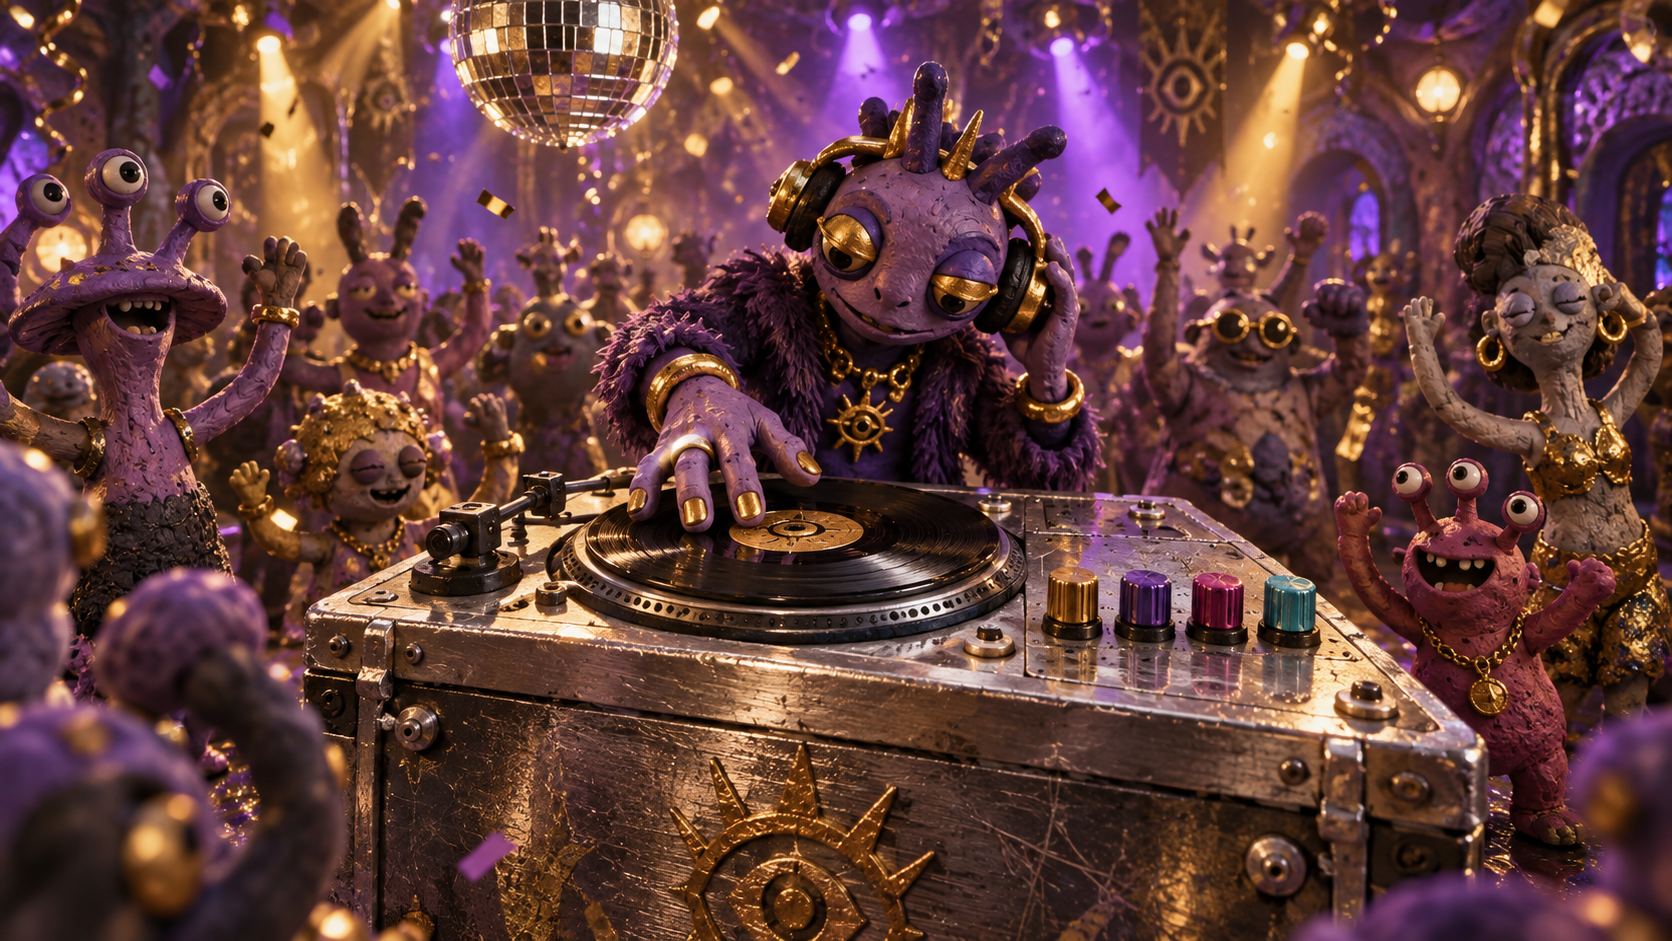
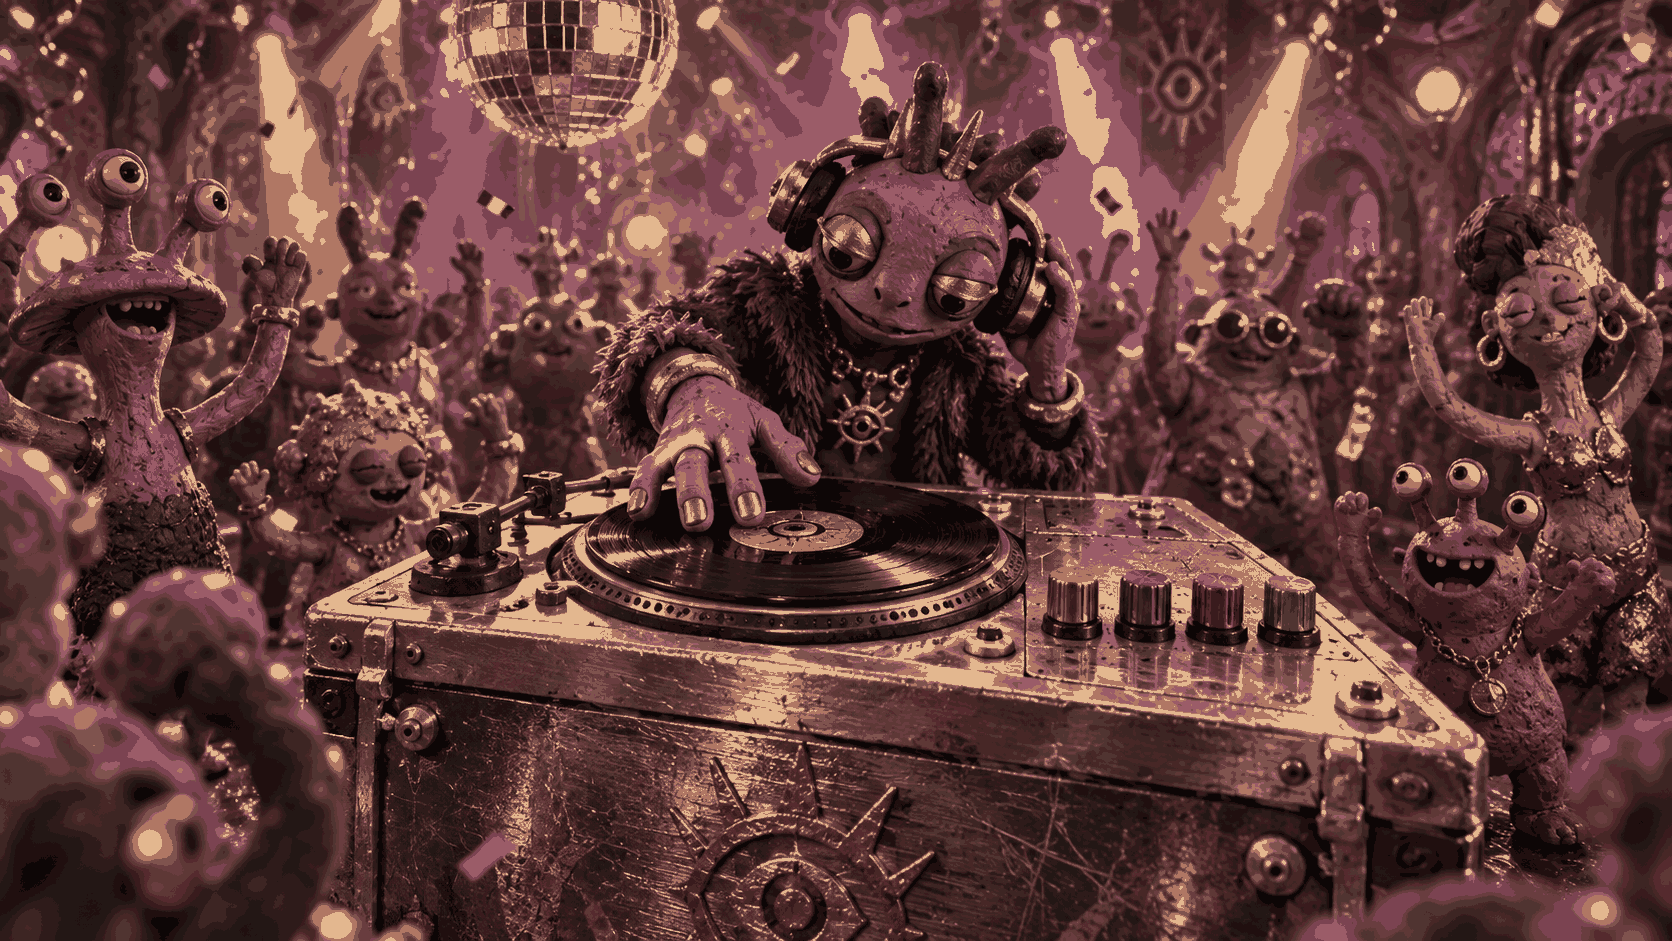
CHORES: .gitattributes, compress djscratch-game-still.png, mark legacy tools
- Add .gitattributes with text=auto eol=lf and binary patterns for images, media, fonts
- Compress tv/assets/djscratch-game-still.png: 2.6 MB -> 365 KB using 32-color quantization with dithering (same dimensions 1672x941, PNG)
- Add LEGACY header comments to tools/check_lilbf_sprint.py, shot_lilboyfriend.py, drive_lilboyfriend.py (target old tv/channels/lilboyfriend.js)
- Renormalize caught 9 files (not committed per plan, listed in report)

diff --git a/tools/shot_lilboyfriend.py b/tools/shot_lilboyfriend.py
@@ -1,3 +1,4 @@
+# LEGACY: targets the old walking game tv/channels/lilboyfriend.js, not the new museum at play/lilboyfriend/.
 """Photograph CH 2 (lilboyfriend) in the television and on its play route, at 1440 and 390.
 
 WHY A SCRIPT AND NOT A GATE, unchanged from tools/shot_fuel.py and worth repeating: a lost or

diff --git a/tools/drive_lilboyfriend.py b/tools/drive_lilboyfriend.py
@@ -1,3 +1,4 @@
+# LEGACY: targets the old walking game tv/channels/lilboyfriend.js, not the new museum at play/lilboyfriend/.
 """Drive lilboyfriend's 3D museum: the half no gate touches.
 
 check_play drives the FLAT gallery (it forces WebGL off) and check_teardown only mounts and unmounts,

diff --git a/tools/check_lilbf_sprint.py b/tools/check_lilbf_sprint.py
@@ -1,3 +1,4 @@
+# LEGACY: targets the old walking game tv/channels/lilboyfriend.js, not the new museum at play/lilboyfriend/.
 from pathlib import Path
 from playwright.sync_api import sync_playwright
 with sync_playwright() as pw:
